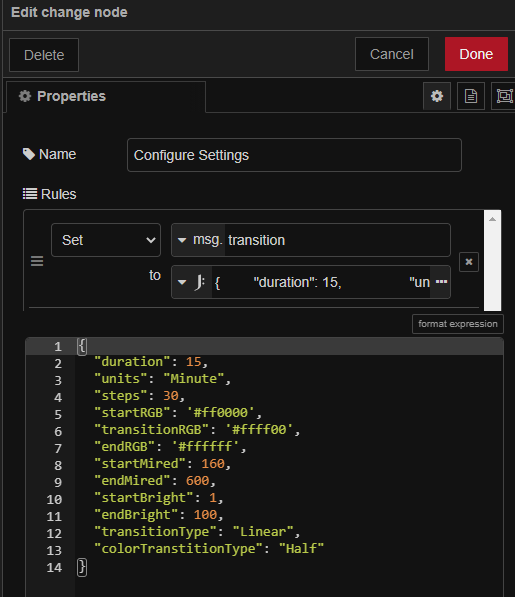
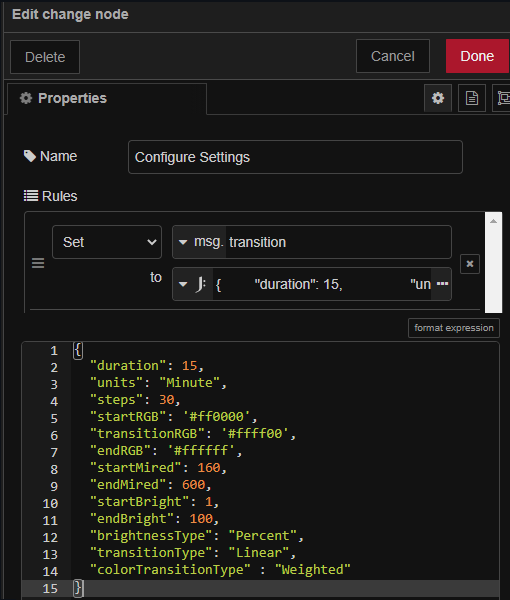
New README with updated pictures

Changed region(s): [[0.0, 0.0, 1.0, 1.0], [0.2353, 0.2111, 0.9118, 0.3015]]

diff --git a/README.md b/README.md
@@ -102,7 +102,7 @@ You can also manually stop the node by sending a `msg.payload` of `stop` or `STO
 
 ![](https://github.com/mochman/node-red-contrib-light-transition/blob/main/images/multiple_flow.png?raw=true)
 
-- The first transition node changes the color from red to yellow / brightness 1 to 100%.
+- The first transition node changes the color from red to yellow with a Half & Half transition. The Brightness changes from 1 to 100% with a linear transition. It also changes the mireds from 100 to 800.
 
 ![](https://github.com/mochman/node-red-contrib-light-transition/blob/main/images/node_settings.png?raw=true)
 
@@ -113,7 +113,7 @@ You can also manually stop the node by sending a `msg.payload` of `stop` or `STO
 
 - The "Complete" switch node only passes a message when the `msg.payload` = `complete`. This ensures that the second node won't get started when a stop command is sent to the first node since the nodes will send a `stopped` message when forced to stop.
 
-- The second transition node changes the mireds from 525(warm) to 160 (cool) / brightness 1 to 100%.
+- The second transition node changes the mireds from 525 (warm) to 160 (cool). The Brightness changes from 100 to 0% with an exponential transision.
 
 ![](./images/node_settings2.png)
 
